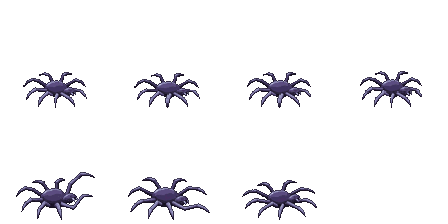
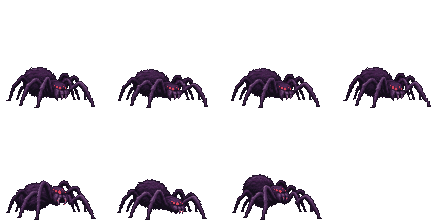
Register the giant spider redraw 2 (red eyes, darker body, approved idle kept); owner to confirm
Claude-Session: https://claude.ai/code/session_01GaNnj798T1h6Syc1iU5s6y

diff --git a/art/requests/feedback.md b/art/requests/feedback.md
@@ -437,3 +437,11 @@
 - 타격 자세가 96칸을 6px 넘어 밀어 넣는 것은 손질 전에도 같았다(원래부터) — 그대로 둔다.
 - 다음 PC 항목: 지금은 없다. 달리기 뼈대(`run_base`) 초안이 나오면 올린다. 나중 손질 목록의 다음 후보는 비요른의 수염도끼 날.
 
+## 거대 거미 다시 그리기 2 (`455985d`) ✅ — 등록, 주인 확인 대기 · art-inbox `455985d` 에 고정해 점검
+- THIS ROUND 의 두 가지: **눈** — 붉은 #d6455d 눈 무리, 게임 크기에서 12~19px 남는다(전에는 0px). **몸 색** — 더 어둡고 차가워졌다(게임 시트 평균 밝기 67 → 37).
+  통과한 대기 컷(`555007c`)의 몸·다리 배치·발 위치를 네 자세 모두 그대로 지켰다.
+- 꼭 남길 것(시안): 땅높이 옆모습 ✔ · 큰 털 배 ✔ · 털 실루엣 ✔ · 붉은 눈 ✔ · 검보라 덩어리 ✔(몸통) · 등보다 높은 다리 아치 △(무릎이 등 높이 남짓 — 시안만큼 높지는 않다).
+- 자세: 준비 = 머리를 들고 독니를 벌림, 타격 = 머리를 낮춰 앞으로 물기, 피격 = 몸이 들리며 움츠림. 게임 크기에서 대기와의 실루엣 차이 25~36%.
+  다리는 디딘 채(주인 요청대로 발이 아니라 몸·머리·독니가 움직인다). 거미줄은 엔진이 그린다.
+- 남은 차이: 다리가 시안의 윤기 나는 검정보다 밝은 회보라다. 주인에게 시안과 나란히 보여 주고 묻는다(「주인에게 물을 것」 2번) — 고치게 되면 PC 색 손질로 충분하다.
+

diff --git a/art/inbox/NOTES.md b/art/inbox/NOTES.md
@@ -479,3 +479,10 @@ PROPOSALS: none.
 - 참고: 없음
 - 검사: `check_delivery.py` RESULT: PASS (42색, 키와 최소 거리 182.6, 네 자세 최하단 y=870) · against the base: silhouette changed 1513 px, colour changed 5171 px (per pose silhouette/colour: 327/1257, 443/1458, 344/1307, 399/1149)
 - 지침 판: 2026-11-26c
+
+## sheet/monster/거대 거미 - 4자세 재작성
+CHECK: RESULT: PASS
+REFERENCES LOADED: 승인 대기 컷 check_giant-spider_idle.png@555007c OK; concept_800.jpg OK; guide_layout.png OK; guide_scale.png OK; 바렌 화풍 앵커 OK.
+DEVIATIONS: (a) 대기 실루엣의 폭 543px와 발 배치를 기준으로 각 자세를 같은 축척으로 처리. 고정 발끝의 윤곽 재래스터화로 일부 발끝은 원본 기준 1–2px 차이, 바닥선은 네 칸 모두 y=461. (b) none. (c) none.
+RISKS AT GAME SIZE: SPOT: #d6455d (눈). 112px 변환에서 빨강은 대기/준비/타격/피격 각각 12/19/17/14px 남음. 작은 눈 일부와 먼 쪽 다리 끝은 어두운 숲에서 겹쳐 읽힐 수 있음. 타격 때 독니가 좁아지고 몸이 전진하는지, 피격 때 +2px 무게중심 보정이 발을 흔들어 보이지 않는지 실제 전투 확인 부탁.
+PROPOSALS: 동일 경로의 임시 시트를 바꿨으며, 게임 등록은 이 SHA 검수 뒤 결정 부탁.
